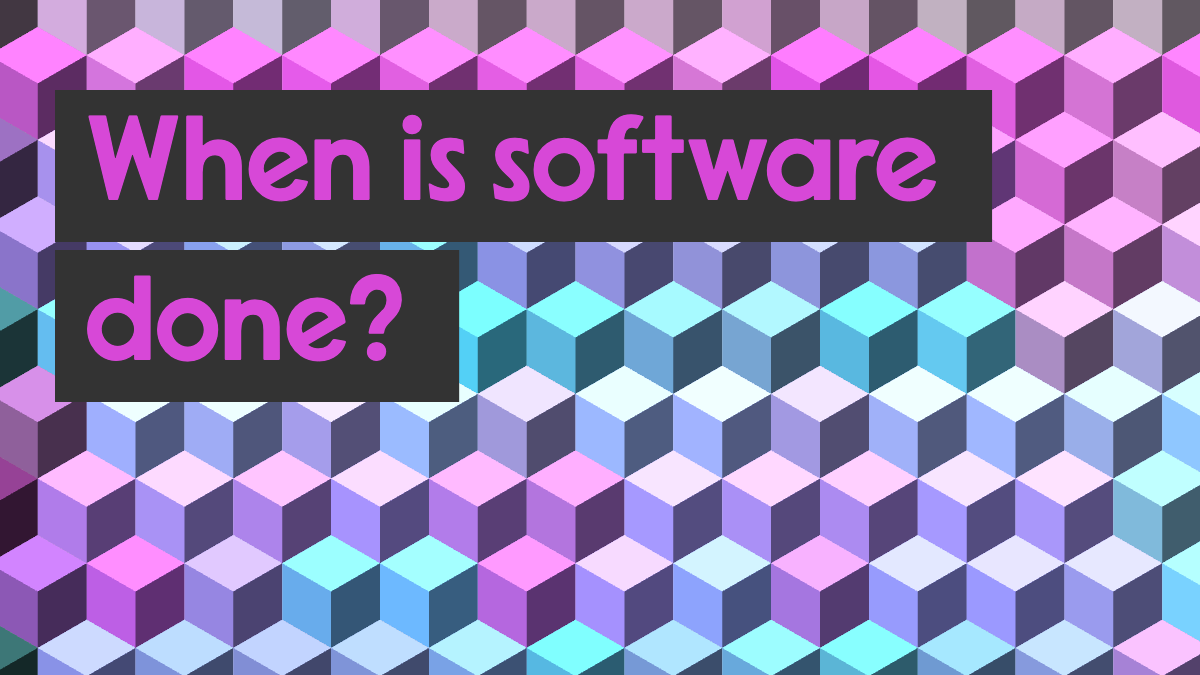
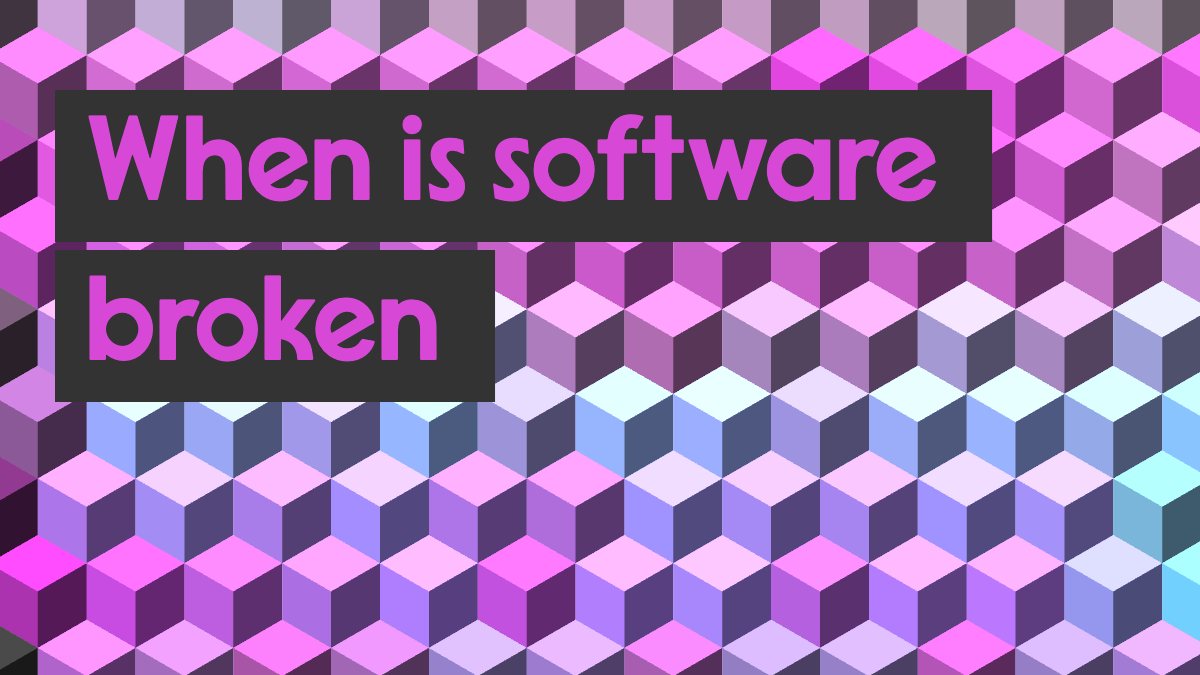
poor fix to re-run the first without figuring out the race condition

diff --git a/glitch/glitch-crawl.test.js b/glitch/glitch-crawl.test.js
@@ -5,16 +5,9 @@ import { test, expect } from "@playwright/test";
 
 const host = "http://localhost";
 const port = "8099";
+const glitchPaperUrl = `${host}:${port}/glitch-paper.html`;
 
-test("crawl glitch posts", async ({ request, page }) => {
-	const glitchPaperUrl = `${host}:${port}/glitch-paper.html`;
-	const dataUrl = `${host}:${port}/glitch.json`;
-	const testData = await (await request.get(dataUrl)).json();
-
-	console.log(testData);
-
-	for (let i = 0; i < testData.posts.length; i += 1) {
-		const item = testData.posts[i];
+const renderAndShoot = async (page, item) => {
 		const url = `${host}:${port}${item.pageUrl}`;
 		console.log(url);
 		await page.goto(url);
@@ -48,5 +41,17 @@ test("crawl glitch posts", async ({ request, page }) => {
 		const downloadSVG = await downloadPromiseSVG;
 		// Wait for the download process to complete and save the downloaded file somewhere.
 		await downloadSVG.saveAs("content/posts/img/banner/" + downloadSVG.suggestedFilename());
+
+}
+
+test("crawl glitch posts", async ({ request, page }) => {
+	const dataUrl = `${host}:${port}/glitch.json`;
+	const testData = await (await request.get(dataUrl)).json();
+
+
+	for (let i = 0; i < testData.posts.length; i += 1) {
+		const item = testData.posts[i];
+		await renderAndShoot(page, item);
 	}
+	await renderAndShoot(page, testData.posts[0]);
 });
